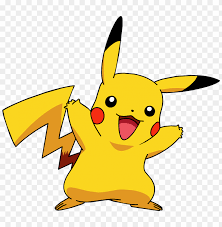
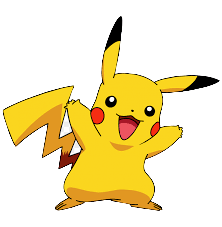
Added transparent images and background image

diff --git a/src/components/Arena.jsx b/src/components/Arena.jsx
@@ -92,7 +92,7 @@ export const Arena = ({ team, setTeam, tokens, setTokens, level, setLevel }) => 
         setFightBtn(false)
         setDone(false)
         setEnemyTeam(ENEMY)
-        setTokens(tokens => 0)
+        setTokens(tokens => 5)
         setPoints(points => 0)
         setLevel(level => 1)
         setLength(length => 10)
@@ -142,6 +142,45 @@ export const Arena = ({ team, setTeam, tokens, setTokens, level, setLevel }) => 
                         s = s - 1
                     }
                 }
+                if (x > 0 && y > 0 && board[y-1][x-1] && board[y-1][x-1].name == "Alien") {
+                    if (r > 2 && s > 0) {
+                        board[y-1][x-1].img = 'src/components/images/fire.png'
+                        board[y-1][x-1].name = 'x'
+                        setPoints(points => points + 5)
+                        s = s - 1
+                    }
+                }
+                if (x > 0 && y < length - 1 && board[y+1][x-1] && board[y+1][x-1].name == "Alien") {
+                    if (r > 2 && s > 0) {
+                        board[y+1][x-1].img = 'src/components/images/fire.png'
+                        board[y+1][x-1].name = 'x'
+                        setPoints(points => points + 5)
+                        s = s - 1
+                    }
+                }
+                if (x < length - 1 && y < length - 1 && board[y+1][x+1] && board[y+1][x+1].name == "Alien") {
+                    if (r > 2 && s > 0) {
+                        board[y+1][x+1].img = 'src/components/images/fire.png'
+                        board[y+1][x+1].name = 'x'
+                        setPoints(points => points + 5)
+                        s = s - 1
+                    }
+                }
+                if (x < length - 1 && y > 0 && board[y-1][x+1] && board[y-1][x+1].name == "Alien") {
+                    if (r > 2 && s > 0) {
+                        board[y-1][x+1].img = 'src/components/images/fire.png'
+                        board[y-1][x+1].name = 'x'
+                        setPoints(points => points + 5)
+                        s = s - 1
+                    }
+                }
+                setTeam(team => team.map(m => {
+                    if (m.id === i) {
+                        let newM = {...m, health: h}
+                        return newM
+                    }
+                    return m
+                }))
             })
             setFightBtn(true)
         }

diff --git a/src/css/arena.css b/src/css/arena.css
@@ -12,6 +12,7 @@
     border-bottom: 0.25rem solid black;
     justify-content: center;
     align-items: center;
+    color: white;
 }
 .arenaContainer {
     display: flex;
@@ -23,9 +24,10 @@
 .arenaBoundary {
     display: flex;
     flex-direction: column;
-    border: 0.25rem solid black;
+    border: 0.25rem solid white;
     border-radius: 1rem;
     box-shadow: 5px 5px 5px blue;
+    background: rgba(255, 255, 255, 0.2);
     width: 70vh;
     height: 70vh;
 }
@@ -35,7 +37,7 @@
 }
 .gameBoardSquare {
     display: flex;
-    outline: 0.1rem solid black;
+    outline: 0.1rem solid white;
     border-radius: 5px;
     justify-content: center;
     align-items: center;

diff --git a/src/css/header.css b/src/css/header.css
@@ -1,6 +1,5 @@
 .headerBox {
     width: 100%;
-    background: blue;
     display: flex;
     justify-content: center;
     align-items: center;
@@ -11,7 +10,6 @@
 }
 .navbar {
     width: 100%;
-    background: blue;
     display: flex;
     justify-content: center;
     align-items: center;

diff --git a/src/App.css b/src/App.css
@@ -4,4 +4,5 @@
     height: 100vh;
     display: flex;
     flex-direction: column;
+    background-image: url("src/components/images/sky.png")
 }
